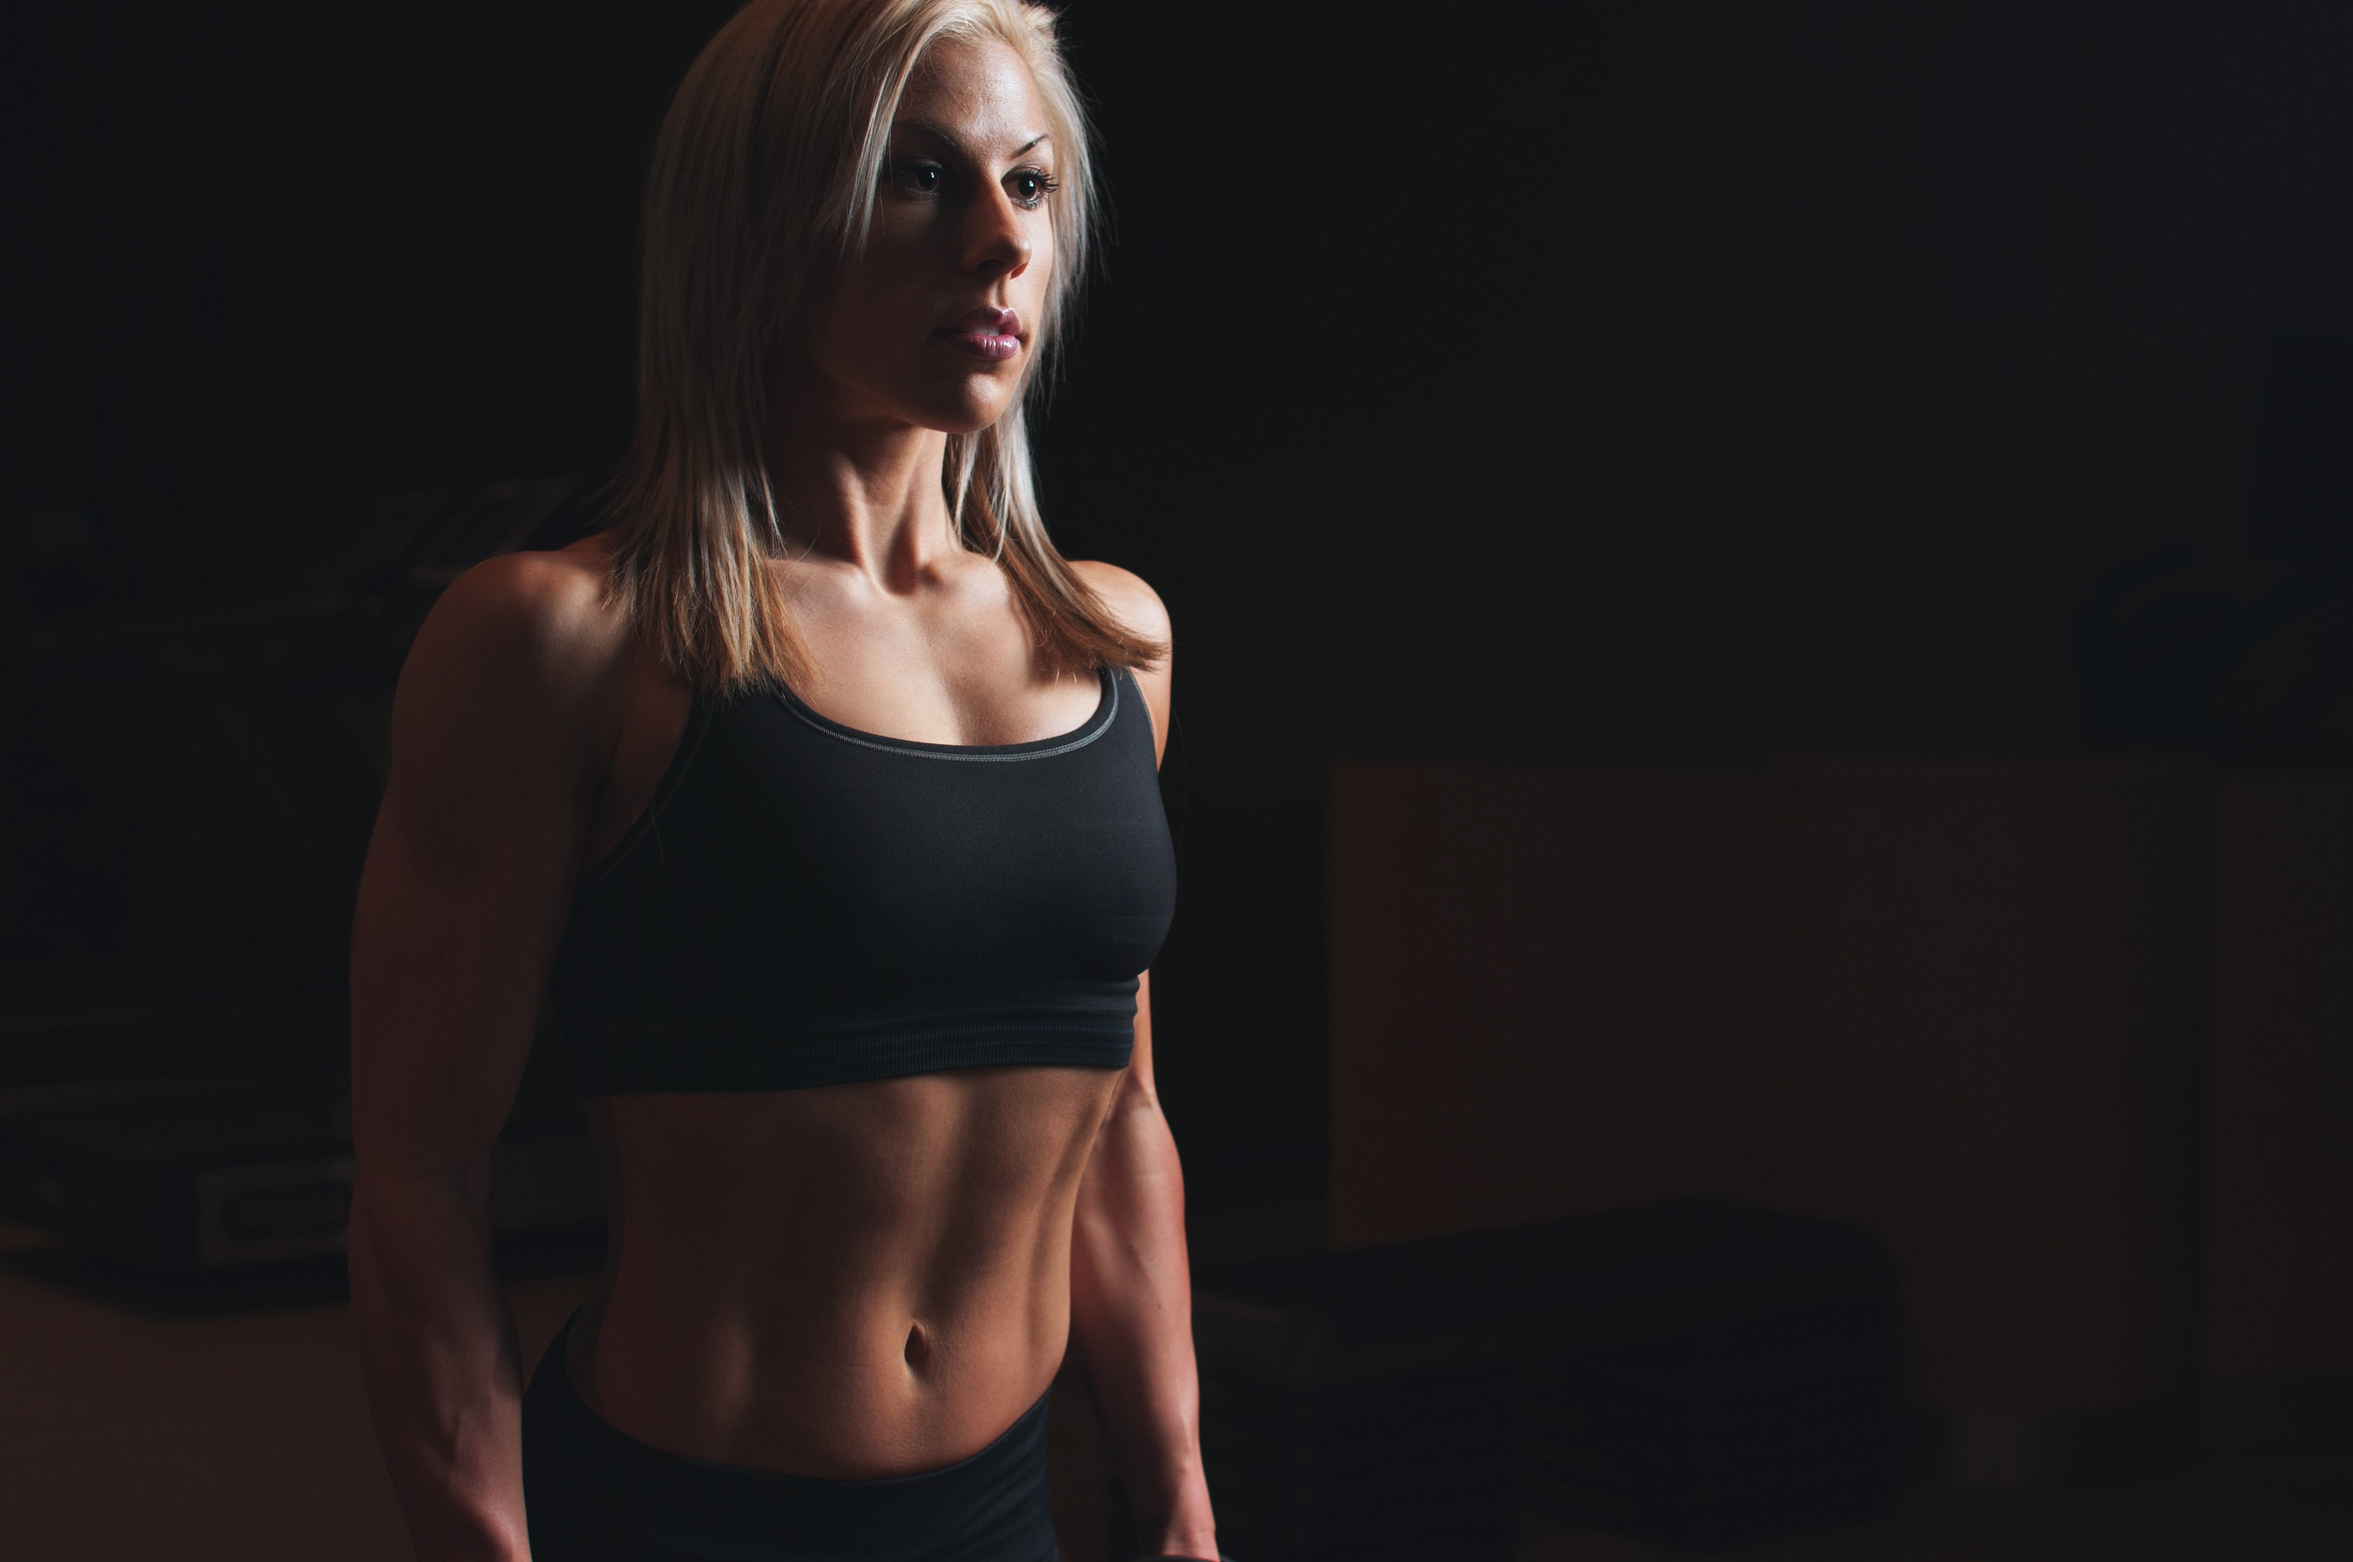
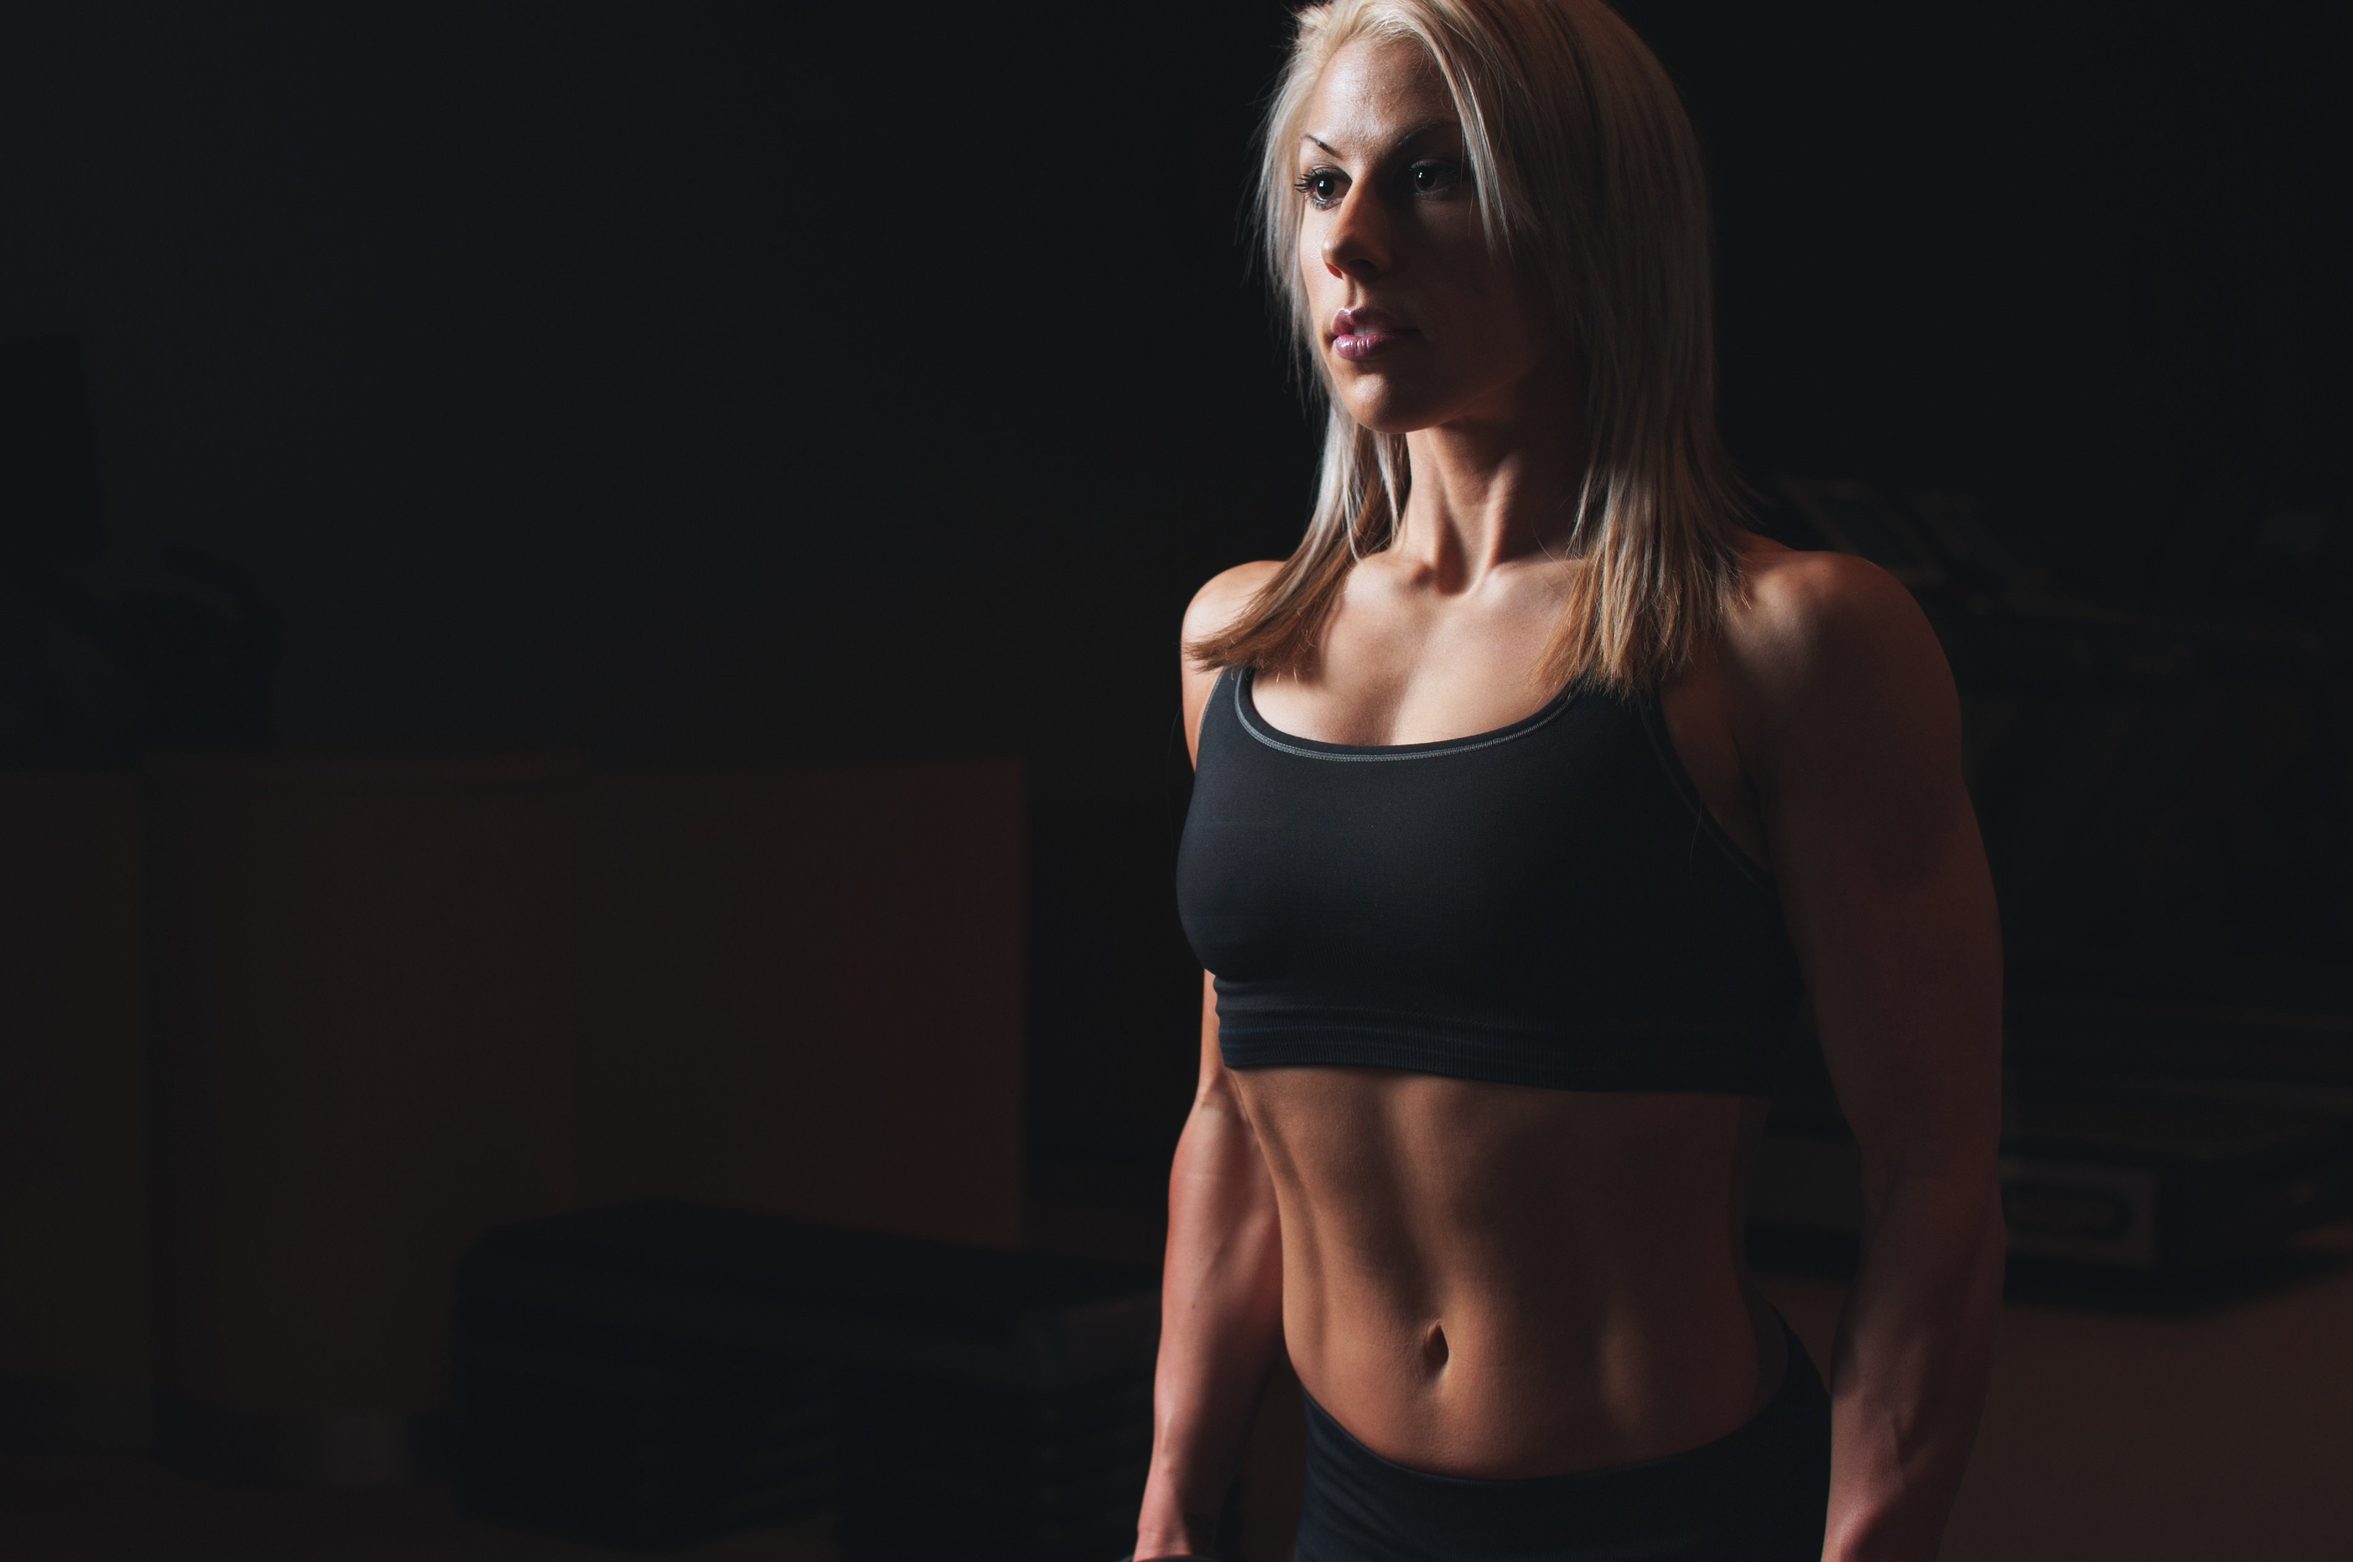
2

diff --git a/index.html b/index.html
@@ -18,6 +18,7 @@
         margin: 0px;
         padding: 0px;
         background: url(img/abs-1850926.jpg);
+        background-size: cover;
     }
 
     .left {
@@ -98,7 +99,7 @@
         margin: 108px 80px;
         padding: 75px;
         width: 34%;
-        borde border-radius: 10px;
+        border-radius: 10px;
     }
 
     .form-group input {
